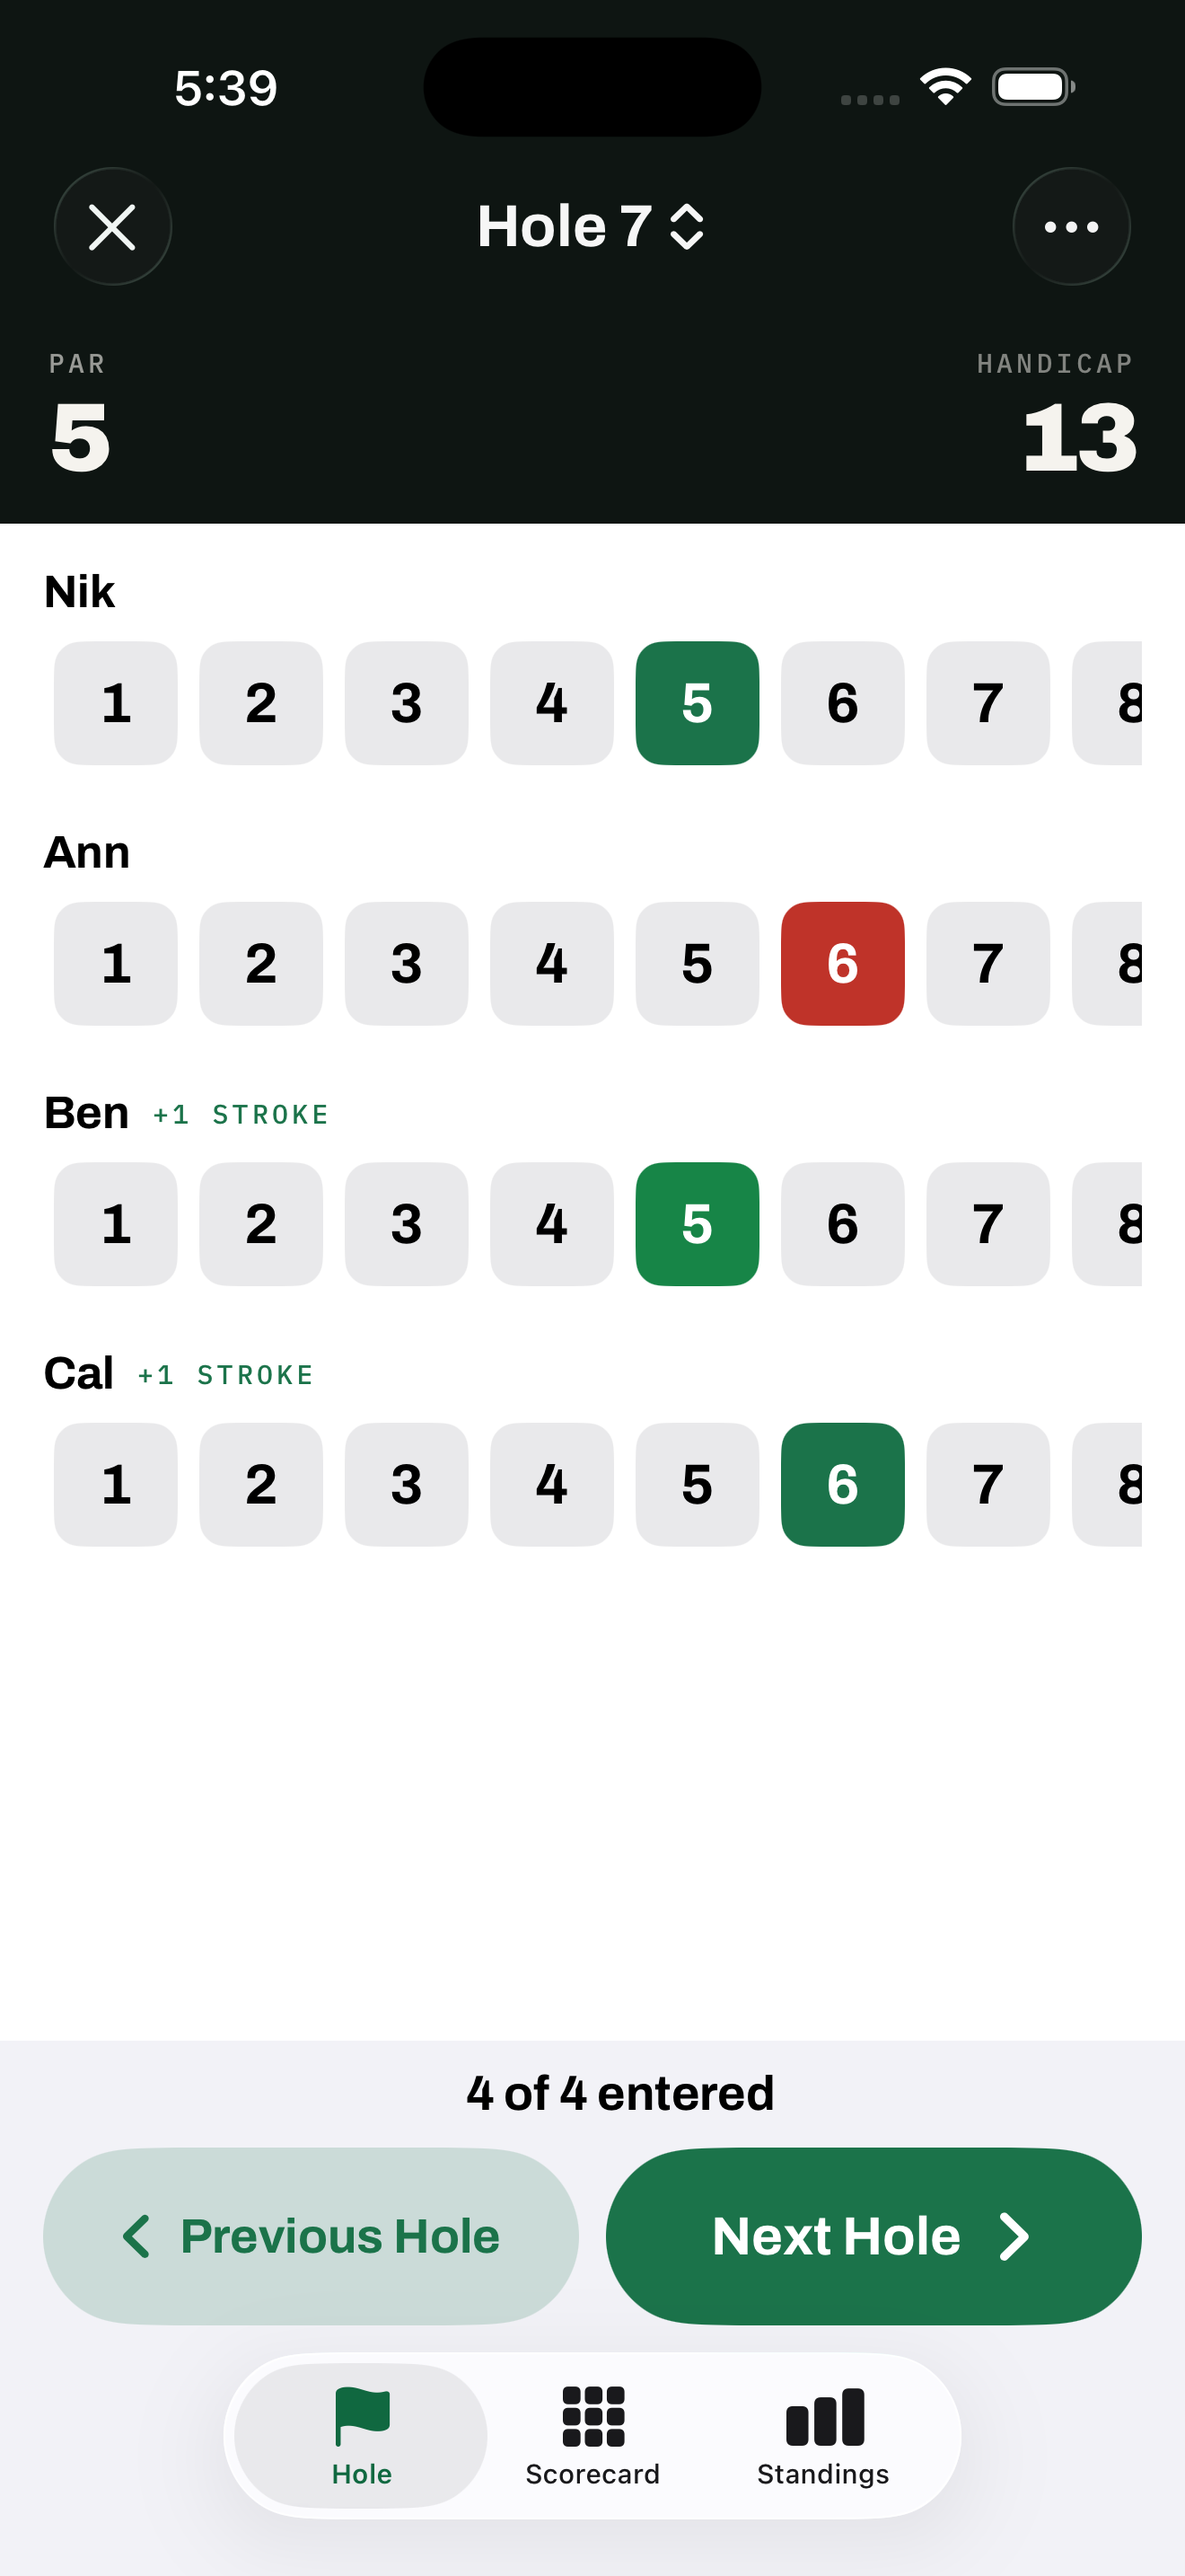
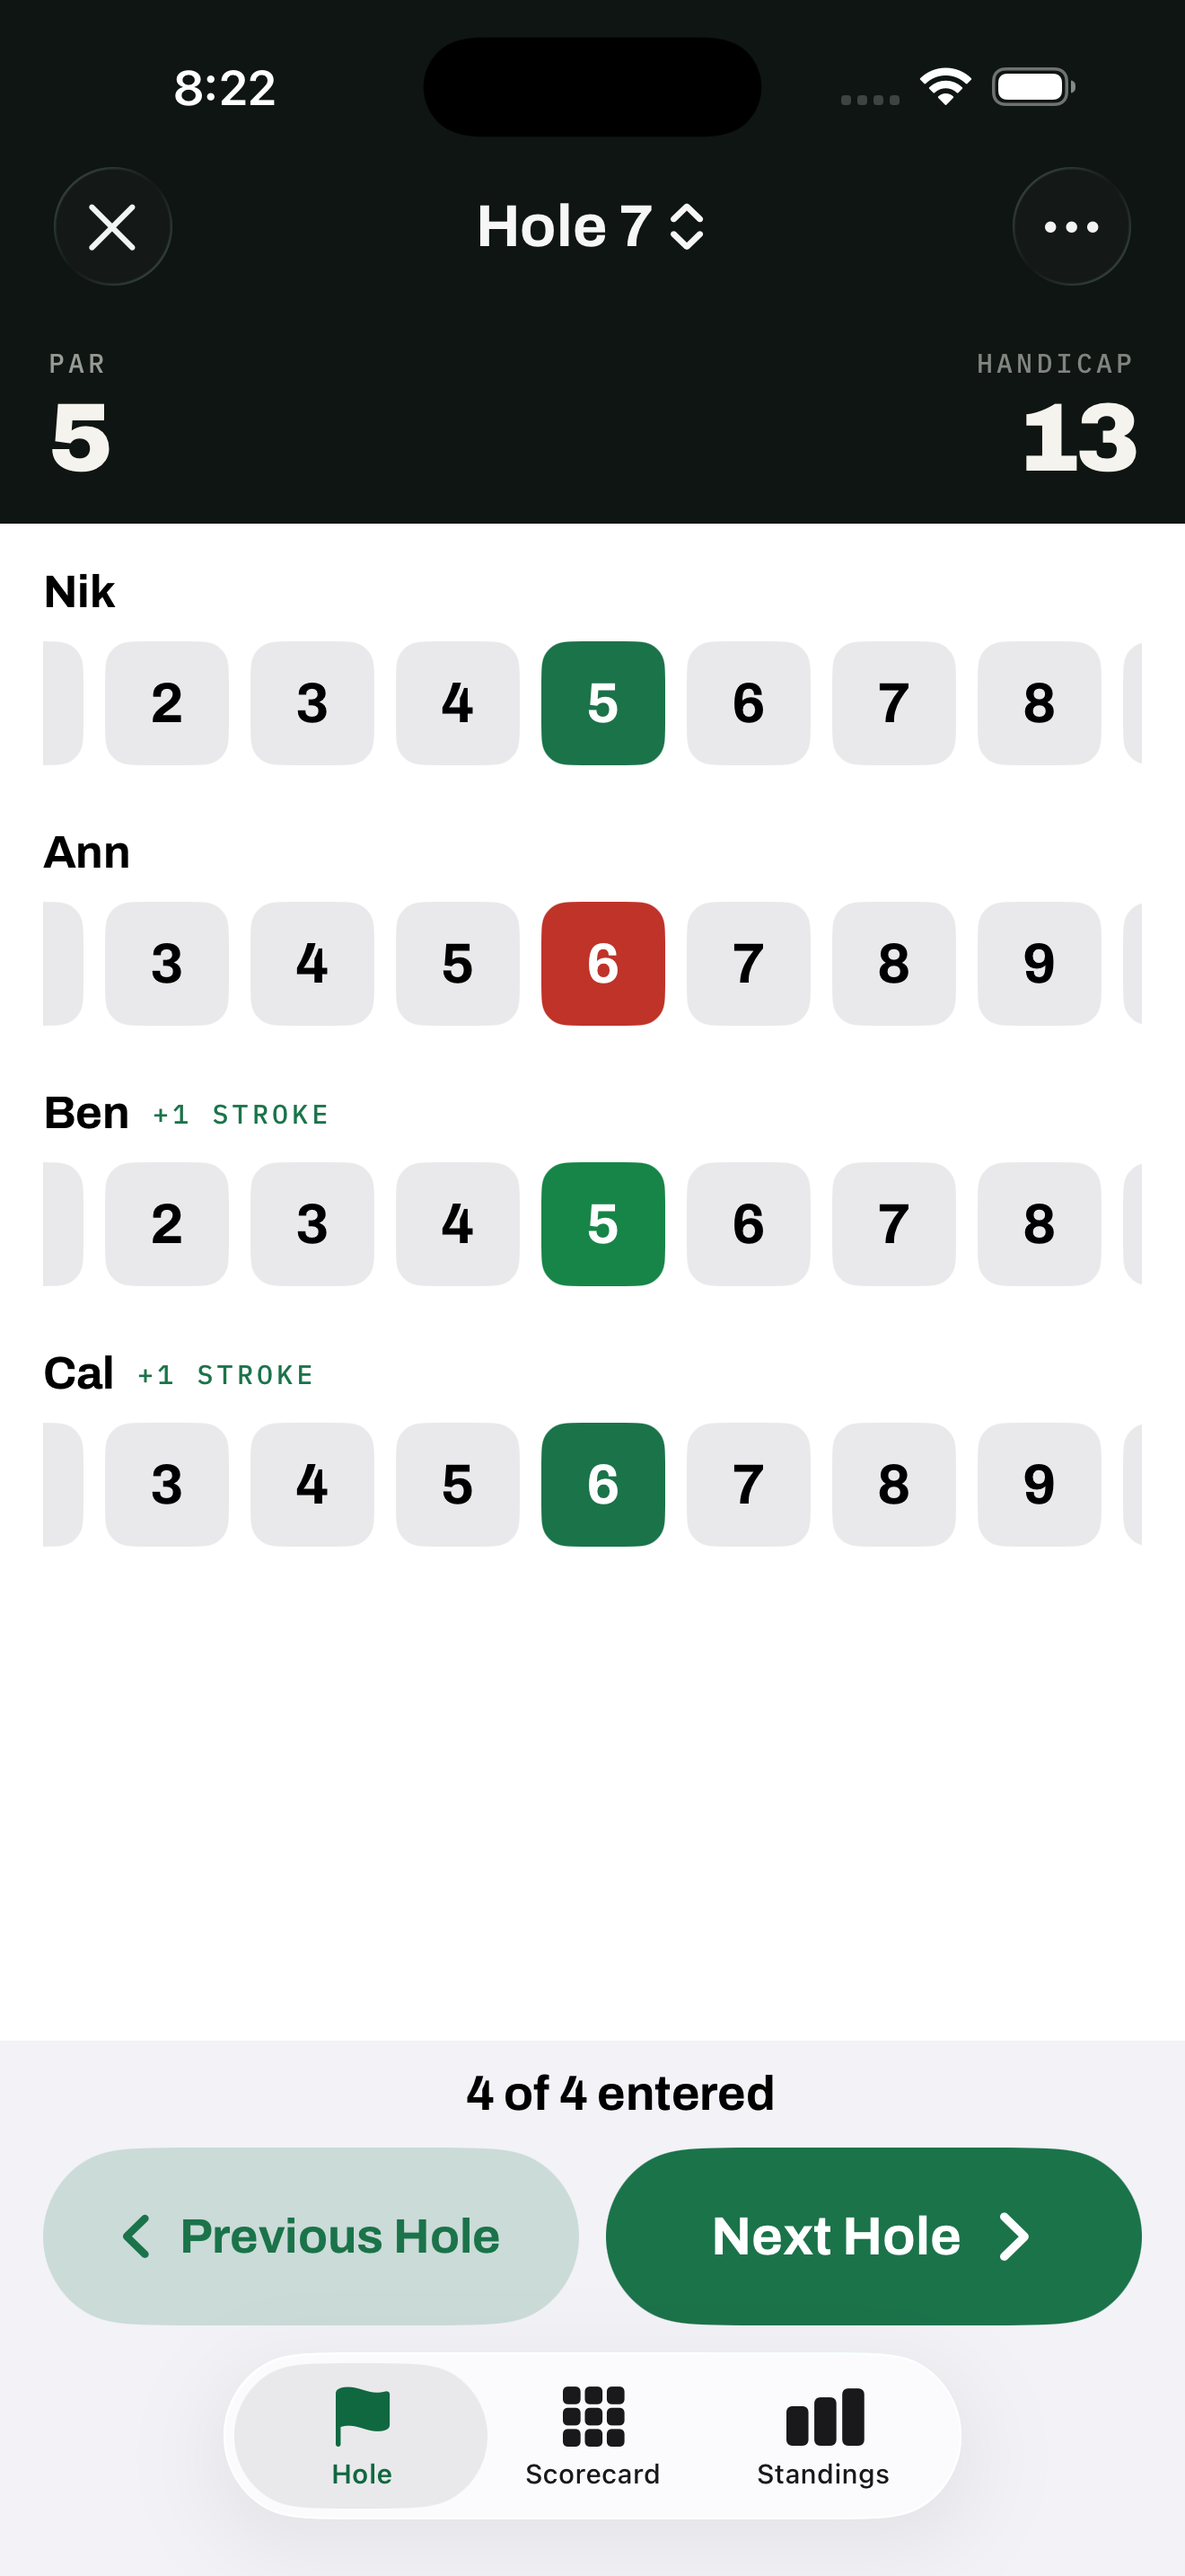
Recapture the iPhone App Store screenshots
Screenshots 1-4 retaken at 1320 x 2868 from a freshly seeded simulator: the
group hole screen on hole 7 with all four scores in and colour-coded, the
solo grid with par marked, the games library, and the course picker with its
OpenGolf attribution.

Screenshot 5, the landscape scorecard, is unchanged. Nothing on the phone
moved between the two dates so it is still accurate, but it cannot be retaken
from here — it needs the simulator rotated, and neither simctl nor the
simulator-control tooling can rotate a device. The doc now records how to
refresh it by hand.

Also replaces the watch standings shot with one of the rebuilt table.

diff --git a/docs/app-store/submission.md b/docs/app-store/submission.md
@@ -229,6 +229,11 @@ network requests at all; the course database ships inside the binary.
 Captured at exact required sizes from `docs/app-store/screenshots/`. Plain device captures, no
 framing. Apple auto-scales the 6.9" set to smaller iPhones, so no other iPhone size is needed.
 
+Screenshots 1–4 recaptured on 2026-09-06. Screenshot 5 is from 2026-09-05 and still accurate —
+nothing on the phone changed in between — but it could not be retaken, because it needs the
+simulator rotated to landscape and neither `simctl` nor the simulator-control tooling can rotate a
+device. To refresh it: rotate the simulator (Cmd+Left Arrow) on the Scorecard tab and capture.
+
 ### iPhone 6.9" — 1320 × 2868 (required)
 
 | Order | File | Shows |
